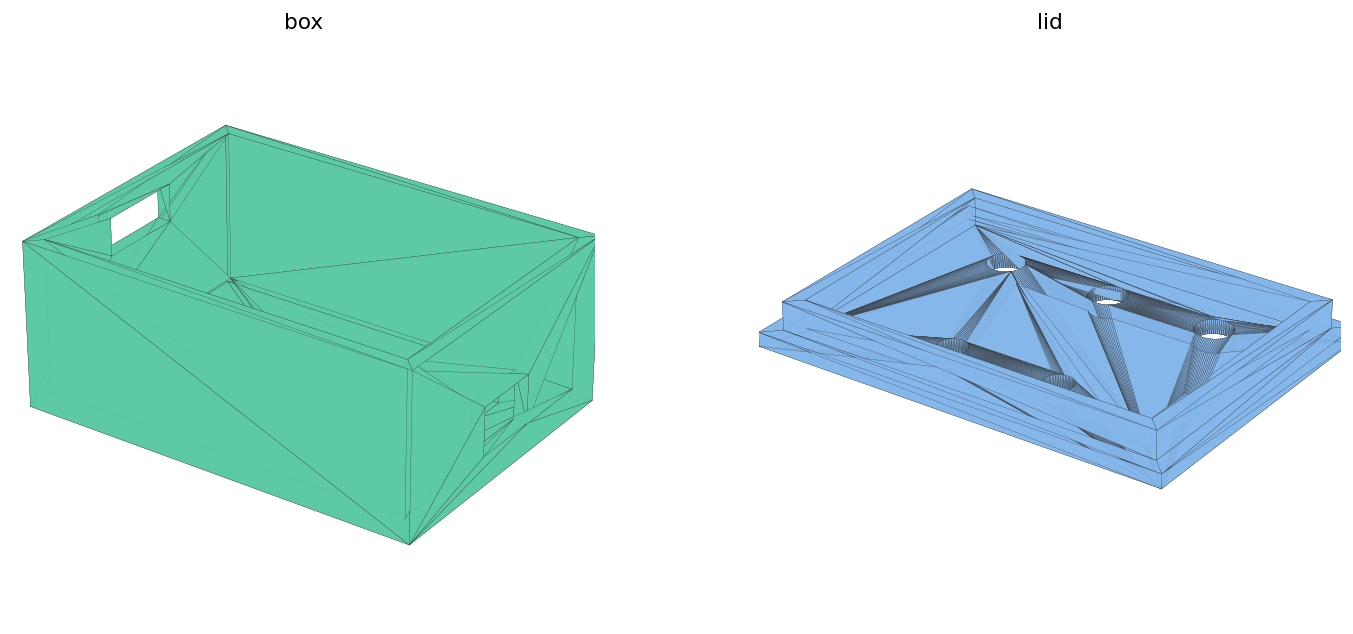
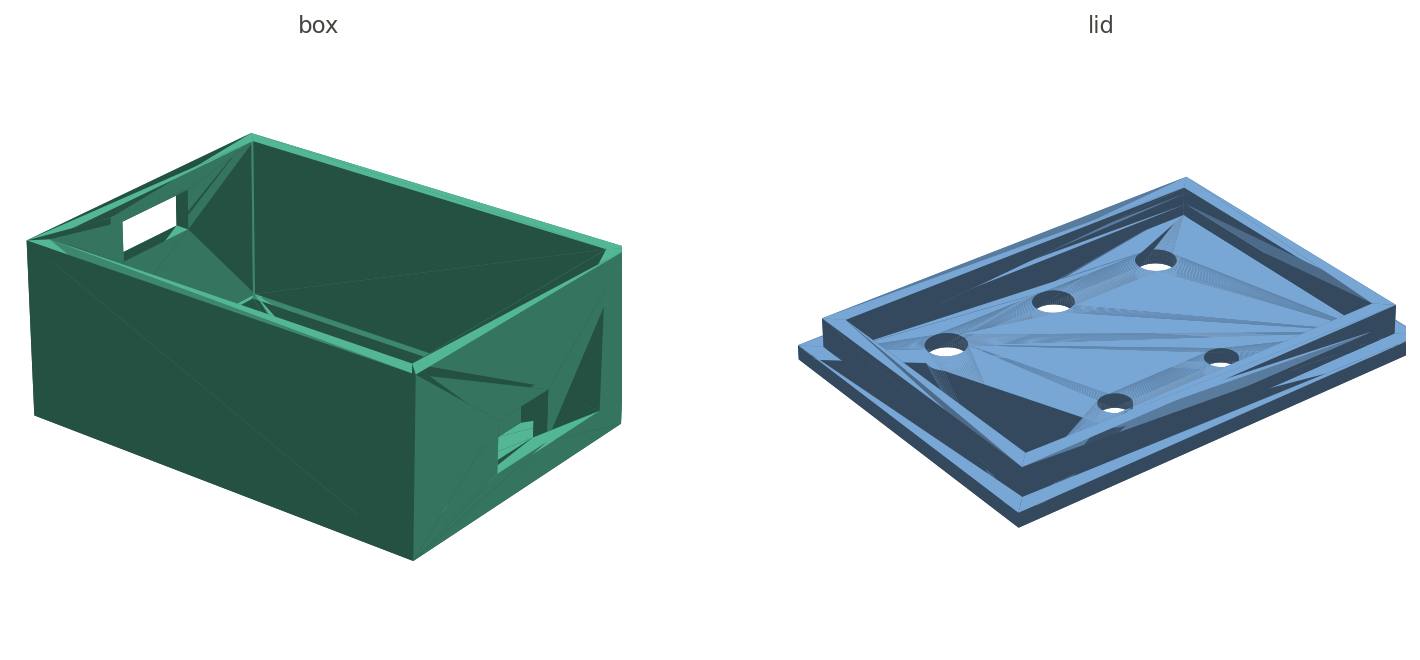
Improve part preview renders
Replace the wireframe matplotlib previews with clean shaded renders
(per-face lighting, no mesh lines, better angles) via a shared
hardware/render_previews.py. Regenerate every part preview.png and add a
parts.png thumbnail strip to the hardware index README.

diff --git a/hardware/render_previews.py b/hardware/render_previews.py
@@ -1,0 +1,99 @@
+"""Render clean shaded preview images for the DDROID printed parts.
+
+Uses matplotlib with per-face lighting (no wireframe) so the STLs look like
+solid models. Regenerates each part's preview.png and a combined thumbnail
+strip for the hardware index.
+
+Requires: trimesh, numpy, matplotlib.
+Run:  python render_previews.py
+"""
+
+import os
+import numpy as np
+import matplotlib
+matplotlib.use("Agg")
+import matplotlib.pyplot as plt
+from mpl_toolkits.mplot3d.art3d import Poly3DCollection
+import trimesh
+
+HERE = os.path.dirname(os.path.abspath(__file__))
+LIGHT = np.array([0.3, 0.45, 0.85])
+LIGHT = LIGHT / np.linalg.norm(LIGHT)
+AMBIENT = 0.4
+
+
+def shaded_faces(mesh, base_rgb):
+    inten = mesh.face_normals @ LIGHT
+    inten = np.clip(inten, 0, 1)
+    inten = AMBIENT + (1 - AMBIENT) * inten
+    base = np.array(base_rgb)
+    cols = np.clip(base[None, :] * inten[:, None], 0, 1)
+    return np.hstack([cols, np.ones((len(cols), 1))])
+
+
+def add_mesh(ax, mesh, base_rgb, elev, azim):
+    pc = Poly3DCollection(mesh.vertices[mesh.faces], linewidths=0)
+    pc.set_facecolors(shaded_faces(mesh, base_rgb))
+    ax.add_collection3d(pc)
+    v = mesh.vertices
+    ax.set_xlim(v[:, 0].min(), v[:, 0].max())
+    ax.set_ylim(v[:, 1].min(), v[:, 1].max())
+    ax.set_zlim(v[:, 2].min(), v[:, 2].max())
+    ax.set_box_aspect(tuple(mesh.extents))
+    ax.view_init(elev=elev, azim=azim)
+    ax.set_axis_off()
+
+
+def render(panels, out, figsize):
+    fig = plt.figure(figsize=figsize)
+    n = len(panels)
+    for i, (mesh, color, elev, azim, title) in enumerate(panels):
+        ax = fig.add_subplot(1, n, i + 1, projection="3d")
+        add_mesh(ax, mesh, color, elev, azim)
+        if title:
+            ax.set_title(title, fontsize=11, color="#444441", pad=0)
+    plt.tight_layout()
+    fig.savefig(out, dpi=150, bbox_inches="tight", transparent=True)
+    plt.close(fig)
+    print("wrote", out)
+
+
+def load(rel):
+    return trimesh.load(os.path.join(HERE, rel))
+
+
+TEAL = (0.36, 0.79, 0.65)
+BLUE = (0.52, 0.72, 0.92)
+CORAL = (0.94, 0.60, 0.48)
+PURPLE = (0.69, 0.66, 0.92)
+
+
+def main():
+    box = load("esp32-pump/enclosure/ddroid_controller_box.stl")
+    lid = load("esp32-pump/enclosure/ddroid_controller_lid.stl")
+    bracket = load("float-switch-bracket/float_switch_bracket.stl")
+    pump = load("pump-mount/pump_mount.stl")
+
+    render(
+        [(box, TEAL, 26, -52, "box"), (lid, BLUE, 32, -128, "lid")],
+        os.path.join(HERE, "esp32-pump/enclosure/preview.png"), (11, 4.5),
+    )
+    render(
+        [(bracket, CORAL, 16, -64, "front"), (bracket, CORAL, 8, -102, "hook over rim")],
+        os.path.join(HERE, "float-switch-bracket/preview.png"), (8, 6),
+    )
+    render(
+        [(pump, PURPLE, 26, -58, "saddles + pipe clip"), (pump, PURPLE, 6, -24, "end view")],
+        os.path.join(HERE, "pump-mount/preview.png"), (10, 5),
+    )
+    # Thumbnail strip for the hardware index
+    render(
+        [(box, TEAL, 24, -52, "enclosure"),
+         (bracket, CORAL, 14, -66, "float-switch bracket"),
+         (pump, PURPLE, 24, -58, "pump mount")],
+        os.path.join(HERE, "parts.png"), (13, 4),
+    )
+
+
+if __name__ == "__main__":
+    main()

diff --git a/hardware/README.md b/hardware/README.md
@@ -8,6 +8,8 @@ The control logic here is the same state machine as the Node-RED flow
 > Pump starts OFF. Water **LOW** -> pump **ON** (fill). Water **FULL** or
 > **STOP** -> pump **OFF**.
 
+![DDROID printed parts: enclosure, float-switch bracket, pump mount](parts.png)
+
 ## Contents
 
 | Folder | Part | STL size |
